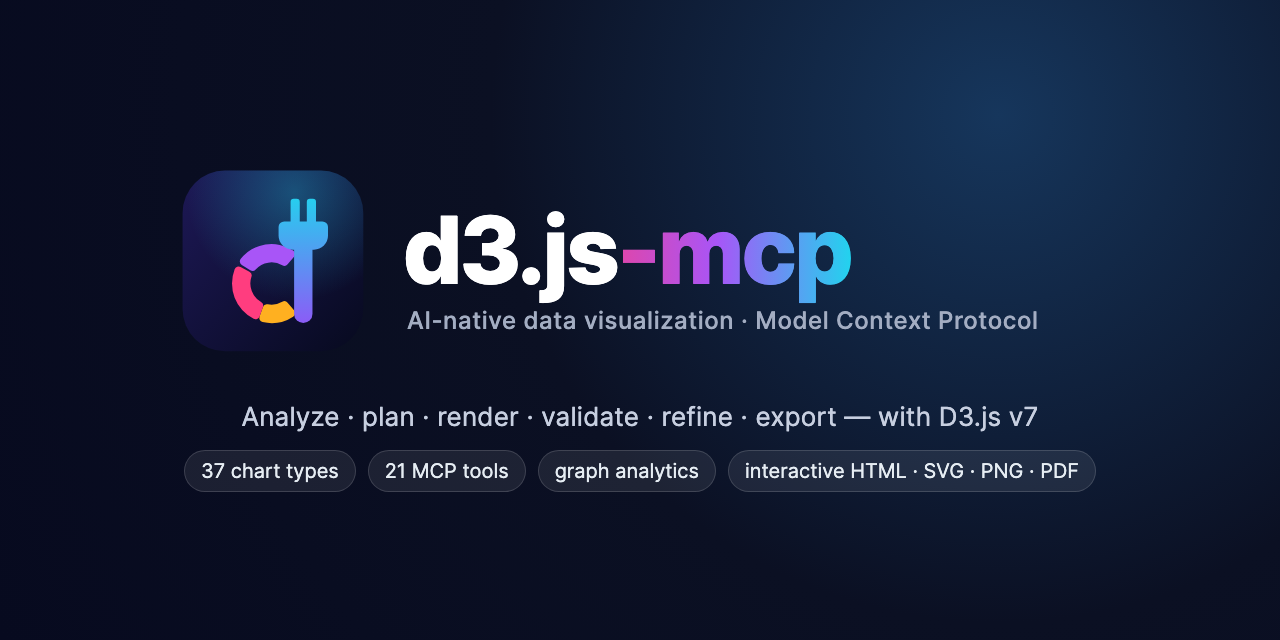
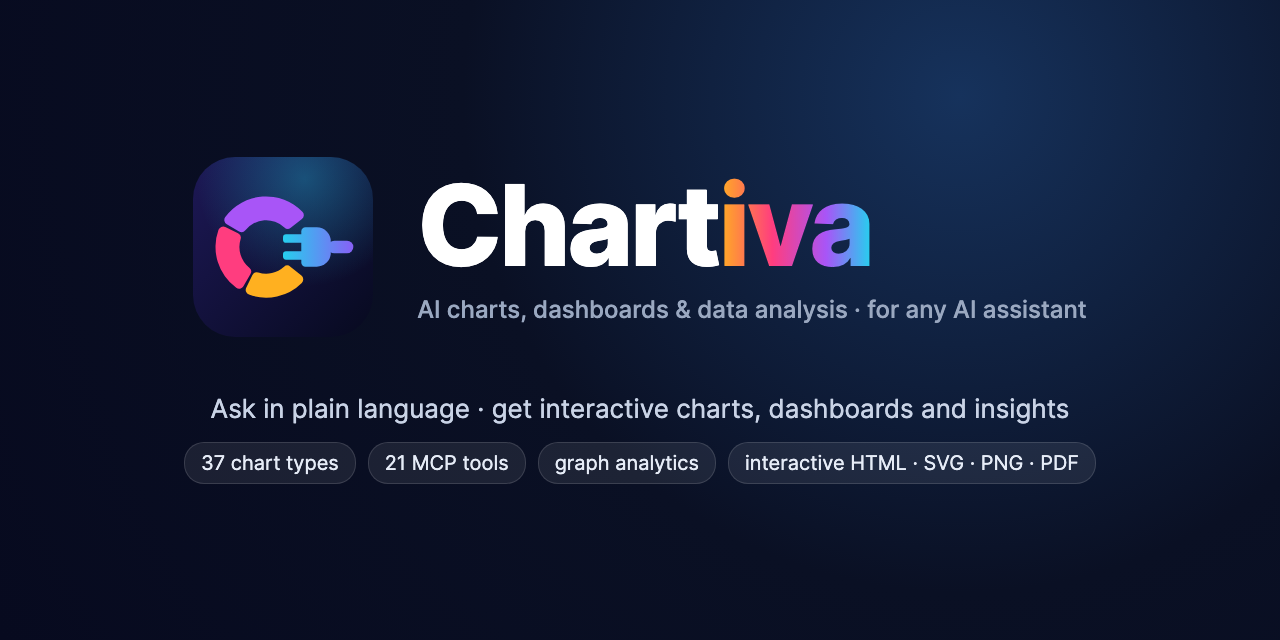
Rebrand to Chartiva

Changed region(s): [[0.125, 0.2188, 0.8438, 0.5312], [0.1562, 0.625, 0.8438, 0.7812]]

diff --git a/README.md b/README.md
@@ -1,7 +1,7 @@
 <p align="center">
   <picture>
     <source media="(prefers-color-scheme: dark)" srcset="assets/logo-dark.svg">
-    <img src="assets/logo-light.svg" alt="d3.js-mcp: AI-native data visualization over the Model Context Protocol" width="560">
+    <img src="assets/logo-light.svg" alt="Chartiva: AI charts, dashboards and data analysis for any AI assistant" width="560">
   </picture>
 </p>
 
@@ -18,9 +18,9 @@
   <b><a href="#get-access">Get access</a></b> · <a href="#gallery">Gallery</a> · <a href="#what-you-can-do">Features</a> · <a href="#works-with-your-ai-assistant">Supported clients</a> · <a href="#faq">FAQ</a>
 </p>
 
-# Turn any AI assistant into a data-visualization analyst
+# Chartiva: turn any AI assistant into a data-visualization analyst
 
-**d3.js-mcp** is a Model Context Protocol (MCP) server and agent skill that lets AI assistants (Claude, ChatGPT, GitHub Copilot in VS Code, OpenCode/OpenChamber, Cursor, Gemini CLI and more) turn your data into **interactive charts, dashboards and analyses**.
+**Chartiva** is a Model Context Protocol (MCP) server and agent skill that lets AI assistants (Claude, ChatGPT, GitHub Copilot in VS Code, OpenCode/OpenChamber, Cursor, Gemini CLI and more) turn your data into **interactive charts, dashboards and analyses**.
 
 Give your assistant a spreadsheet, a CSV export, a JSON API response, a network topology or a map, and ask a question in plain language. It profiles the data, picks the right chart, draws it with [D3.js](https://d3js.org), checks the result, and hands you an **interactive HTML file** that opens in any browser, plus SVG, PNG, PDF, CSV and a reusable chart specification.
 
@@ -30,7 +30,7 @@ You never write chart code. You keep talking instead: *"make it horizontal"*, *"
 
 ## Gallery
 
-Every image below was produced by d3.js-mcp from a single plain-language request.
+Every image below was produced by Chartiva from a single plain-language request.
 
 | | |
 | :---: | :---: |
@@ -84,7 +84,7 @@ The download includes both parts: the **MCP server** (the tools) and the **agent
 
 ## How it works
 
-<p align="center"><img src="assets/architecture.png" alt="Architecture of d3.js-mcp" width="100%"></p>
+<p align="center"><img src="assets/architecture.png" alt="Architecture of Chartiva" width="100%"></p>
 
 ## What you get
 
@@ -96,9 +96,9 @@ The download includes both parts: the **MCP server** (the tools) and the **agent
 
 ## Get access
 
-d3.js-mcp is commercial software; using it requires a license.
+Chartiva is commercial software; using it requires a license.
 
-**To buy a license or ask a question, email [waqasdaar@gmail.com](mailto:waqasdaar@gmail.com?subject=d3.js-mcp%20license).** Please mention:
+**To buy a license or ask a question, email [waqasdaar@gmail.com](mailto:waqasdaar@gmail.com?subject=Chartiva%20license).** Please mention:
 
 - how many users need access,
 - which AI assistants you use (Claude, ChatGPT, VS Code, …),
@@ -125,4 +125,4 @@ Ask at the email above.
 
 ## License
 
-© 2026 Waqas Daar. All rights reserved. d3.js-mcp is proprietary software; use requires a paid license agreement. The text, screenshots, logos and diagrams in this repository are provided for information only and may not be reused without permission. D3.js is © Mike Bostock and used under its ISC license; other names and trademarks belong to their owners.
+© 2026 Waqas Daar. All rights reserved. Chartiva is proprietary software; use requires a paid license agreement. The text, screenshots, logos and diagrams in this repository are provided for information only and may not be reused without permission. D3.js is © Mike Bostock and used under its ISC license; other names and trademarks belong to their owners.
